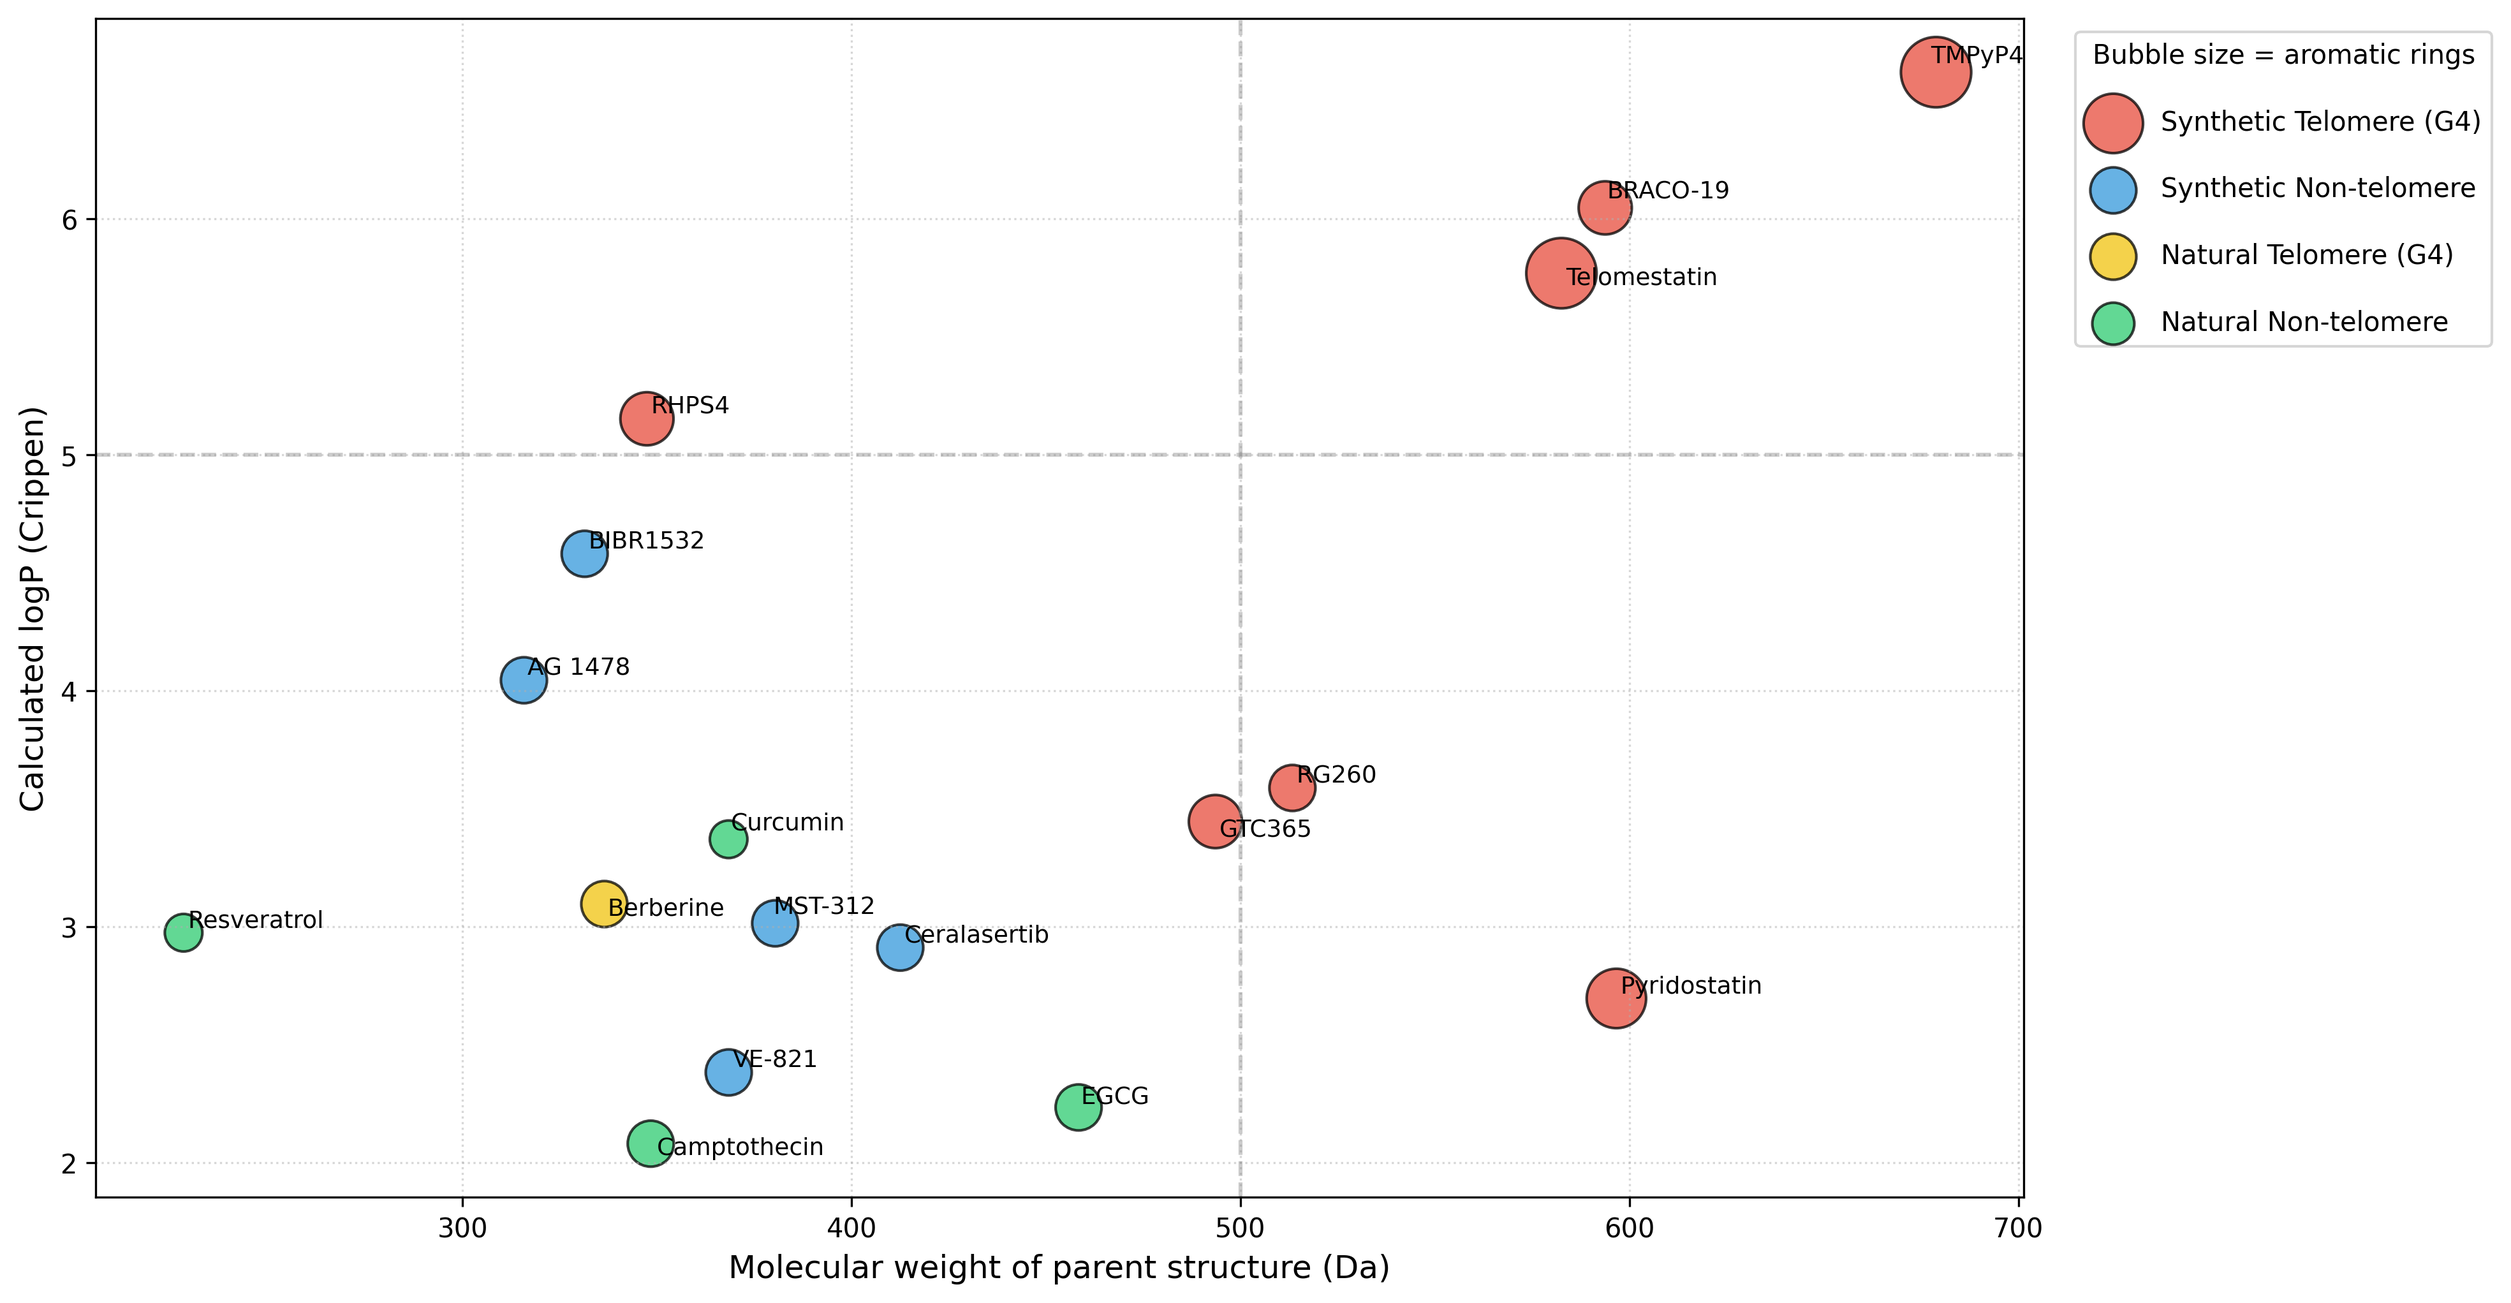
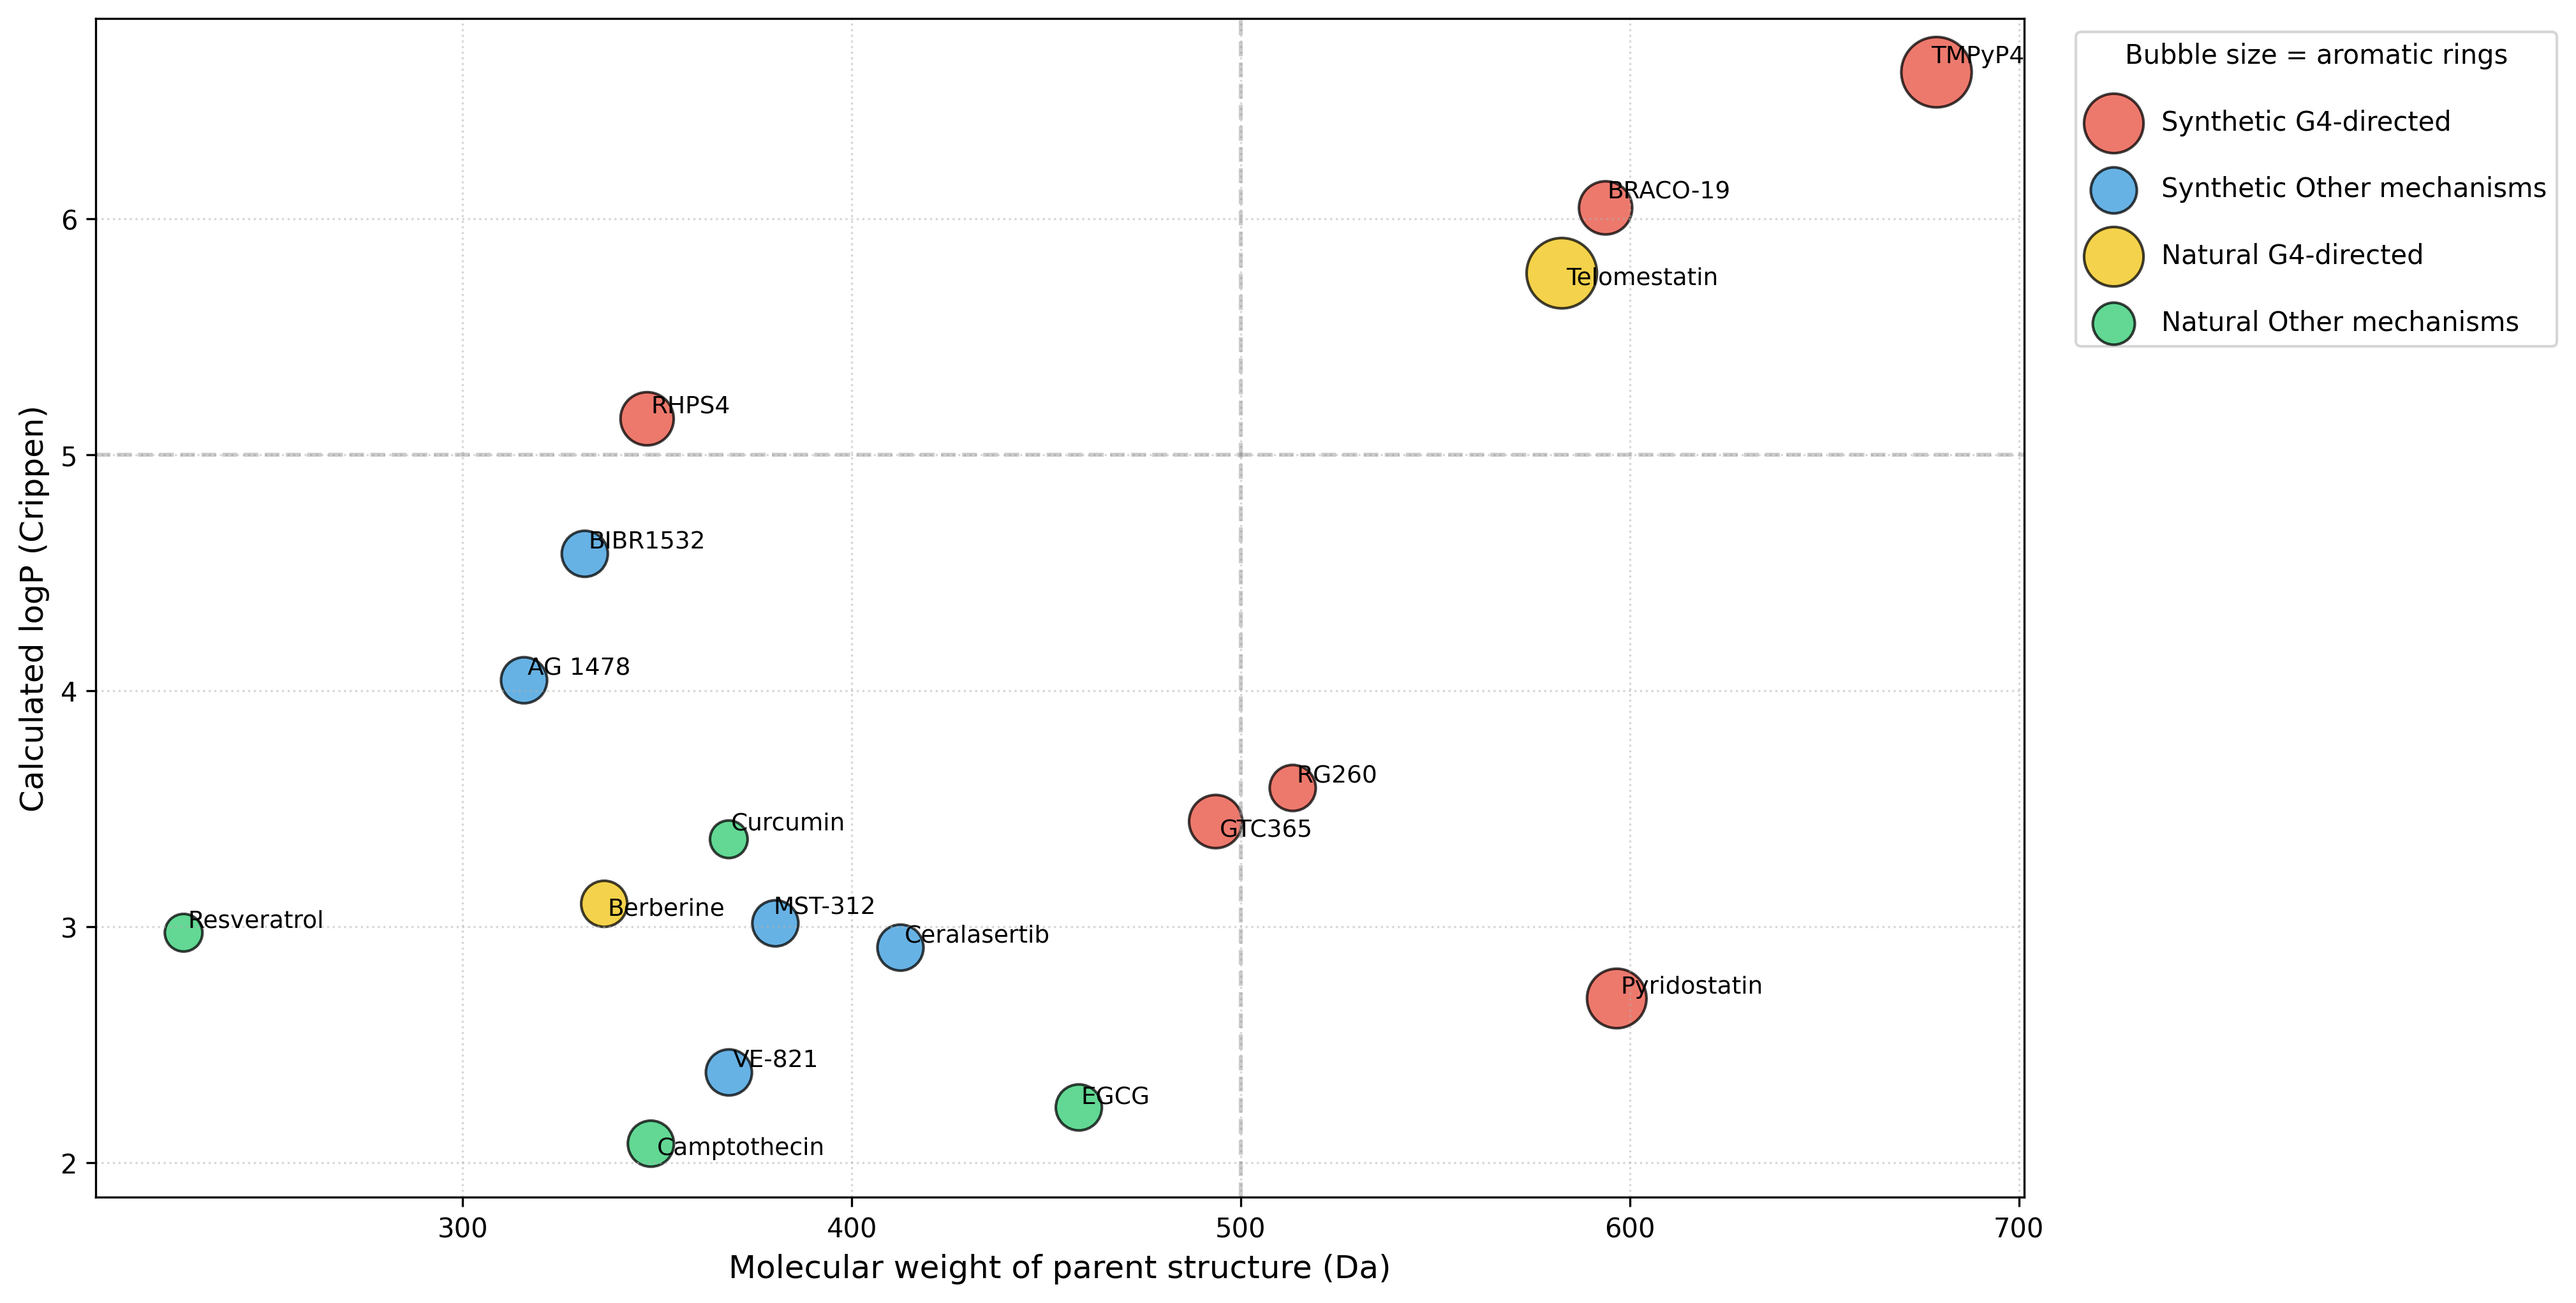
Classify telomestatin as natural; relabel compound targets

diff --git a/drug.py b/drug.py
@@ -13,8 +13,10 @@ from rdkit.Chem.MolStandardize import rdMolStandardize
 PUG = "https://pubchem.ncbi.nlm.nih.gov/rest/pug"
 COMPOUNDS = "compounds.tsv"
 CACHE = "results/compounds_resolved.tsv"
-COLOURS = {"Synthetic Telomere (G4)": "#e74c3c", "Synthetic Non-telomere": "#3498db",
-           "Natural Telomere (G4)": "#f1c40f", "Natural Non-telomere": "#2ecc71"}
+#COLOURS = {"Synthetic Telomere (G4)": "#e74c3c", "Synthetic Non-telomere": "#3498db",
+#           "Natural Telomere (G4)": "#f1c40f", "Natural Non-telomere": "#2ecc71"}
+COLOURS = {"Synthetic G4-directed": "#e74c3c", "Synthetic Other mechanisms": "#3498db",
+           "Natural G4-directed": "#f1c40f", "Natural Other mechanisms": "#2ecc71"}
 
 
 def pubchem_lookup(query):
